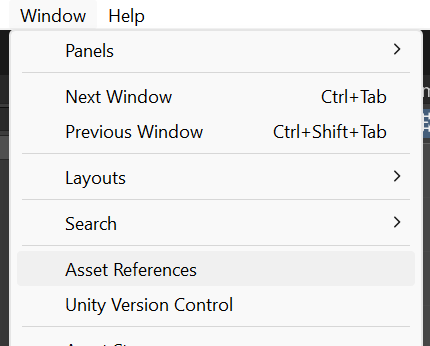
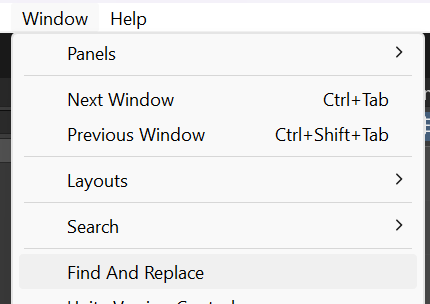
Changed title/menu item copy
Renamed "Asset References" menu item to "Find And Replace"
Renamed "References" window title to "Find & Replace"

diff --git a/Assets/Fright/Editor/Scripts/References/ReferenceWindow.cs b/Assets/Fright/Editor/Scripts/References/ReferenceWindow.cs
@@ -29,6 +29,7 @@ namespace Fright.Editor.References
 {
 	public class ReferenceWindow : EditorWindow
 	{
+		public const string WINDOW_TITLE = "Find & Replace";
 		public const string WARNING_MULTIPLE_REPLACE = "You're replacing references to multiple assets with a single reference.";
 		public const string WARNING_RESET_TITLE = "Reset Settings";
 		public const string WARNING_RESET_BODY = "Are you sure you want to reset your settings to their default value?";
@@ -63,8 +64,8 @@ namespace Fright.Editor.References
 			}
 		}
 		
-		[MenuItem("Window/Asset References")]
-		public static void OpenWindow() => GetWindow<ReferenceWindow>(true, "References").ShowUtility();
+		[MenuItem("Window/Find And Replace")]
+		public static void OpenWindow() => GetWindow<ReferenceWindow>(true, WINDOW_TITLE).ShowUtility();
 
 		[MenuItem("Assets/Find References", true)]
 		public static bool CanOpenWindowWithSelectedObject() => (bool)Selection.activeObject;
@@ -72,7 +73,7 @@ namespace Fright.Editor.References
 		[MenuItem("Assets/Find References")]
 		public static void OpenWindowWithSelectedObject()
 		{
-			var window = GetWindow<ReferenceWindow>(true, "References");
+			var window = GetWindow<ReferenceWindow>(true, WINDOW_TITLE);
 			window.ShowUtility();
 			window.ObjectsToFind = new List<Object?>(Selection.objects);
 			

diff --git a/README.md b/README.md
@@ -1,4 +1,4 @@
-# Fright: Unity Asset Reference Find & Replace
+# Fright: Unity Find & Replace
 Quickly search your Unity project for nearly anything.
 
 Originally designed as a tool to find asset references within your project, this project has increased in scope to search your project for nearly anything, and perform replacements to those searches.
@@ -15,7 +15,7 @@ Download the [latest .unitypackage](https://github.com/StaticPtr/Fright-Unity-Re
 
 ## Usage
 ### Searching your project
-1) Open the References window by clicking on the `Window/Asset References` menu item
+1) Open the References window by clicking on the `Window/Find And Replace` menu item
 ![Reference Window Preview](https://github.com/StaticPtr/Fright-Unity-Reference-Find-Replace/blob/master/Readme%20Assets/HowTo-MainMenu.png?raw=true)
 2) Pick an asset to search for, or enter a regular expression in the Regex panel
 3) Click on the **Find** button to start scanning your project. _Please note that this may take a couple minutes depending on the size of your project, and the speed of your storage._
